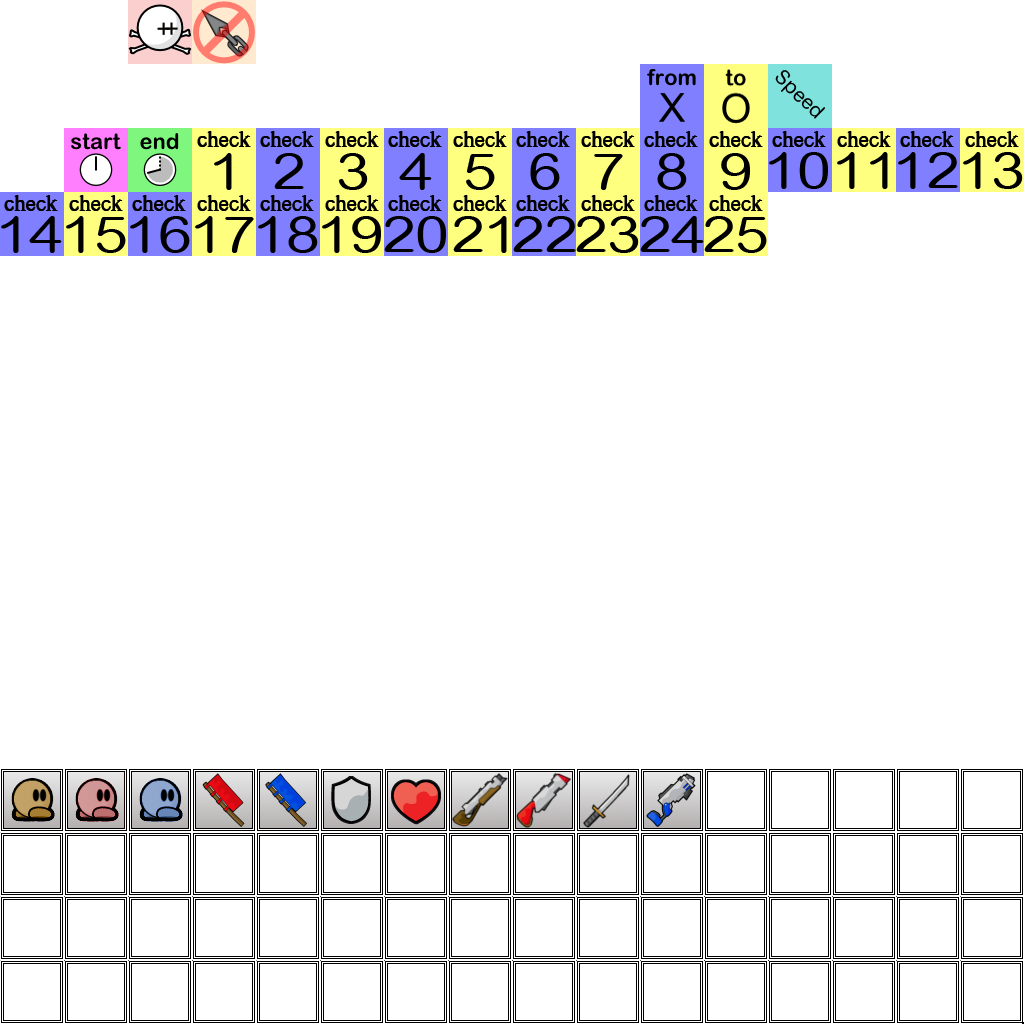
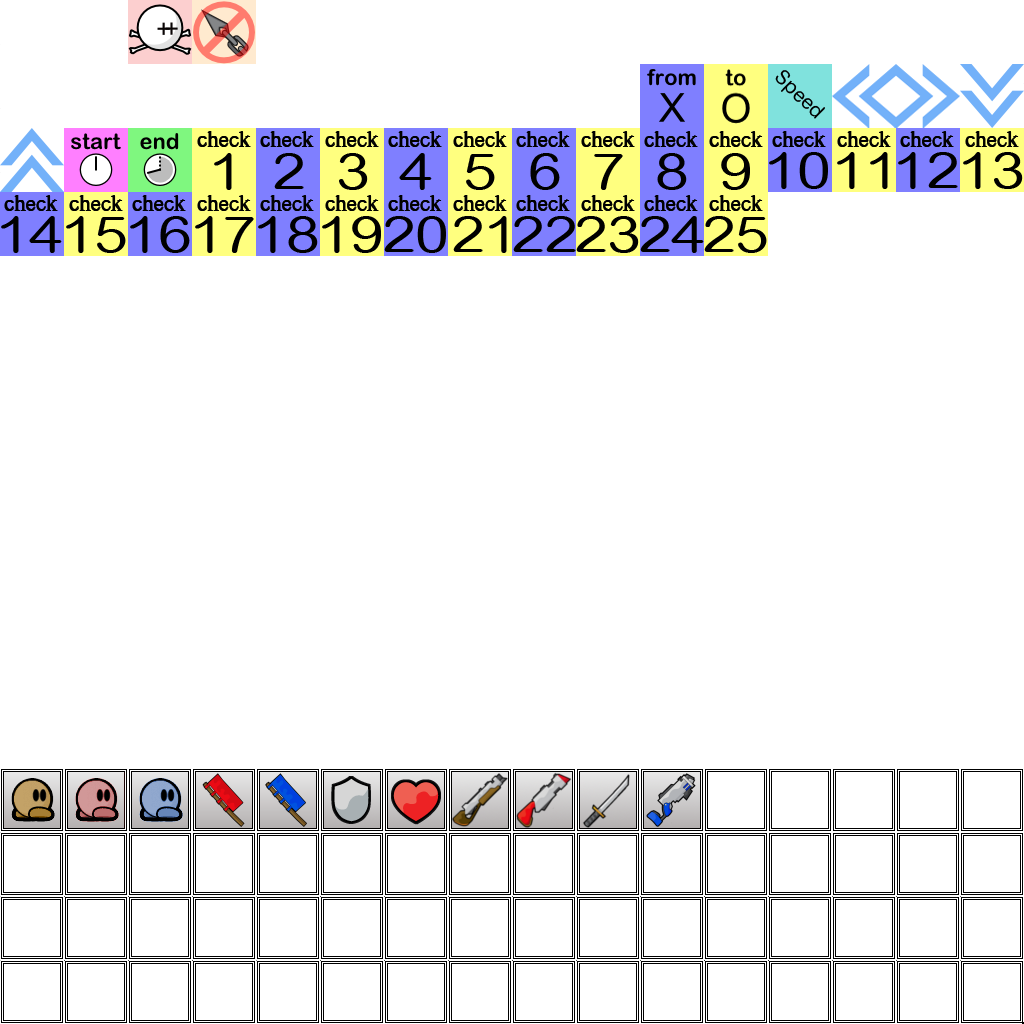
added stop tiles

Changed region(s): [[0.8125, 0.0625, 1.0, 0.125], [0.0, 0.125, 0.0625, 0.1875]]

diff --git a/src/game/server/entities/character.cpp b/src/game/server/entities/character.cpp
@@ -727,6 +727,26 @@ void CCharacter::Tick()
 		if(m_pPlayer->m_Score < TTime)
 			m_pPlayer->m_Score = TTime;
 	}
+	else if(GameServer()->Collision()->GetIndex(m_Core.m_Pos.x, m_Core.m_Pos.y) == TILE_STOPL)
+	{
+		if(m_Core.m_Vel.x > 0)
+			m_Core.m_Vel.x = 0;
+	}
+	else if(GameServer()->Collision()->GetIndex(m_Core.m_Pos.x, m_Core.m_Pos.y) == TILE_STOPR)
+	{
+		if(m_Core.m_Vel.x < 0)
+			m_Core.m_Vel.x = 0;
+	}
+	else if(GameServer()->Collision()->GetIndex(m_Core.m_Pos.x, m_Core.m_Pos.y) == TILE_STOPB)
+	{
+		if(m_Core.m_Vel.y < 0)
+			m_Core.m_Vel.y = 0;
+	}
+	else if(GameServer()->Collision()->GetIndex(m_Core.m_Pos.x, m_Core.m_Pos.y) == TILE_STOPT)
+	{
+		if(m_Core.m_Vel.y > 0)
+			m_Core.m_Vel.y = 0;
+	}
 	
 	// handle speedup tiles
 	int CurrentSpeedup = GameServer()->Collision()->IsSpeedup((int)m_Core.m_Pos.x, (int)m_Core.m_Pos.y);

diff --git a/src/game/client/render_map.cpp b/src/game/client/render_map.cpp
@@ -388,7 +388,6 @@ void CRenderTools::RenderSpeedupmap(CSpeedupTile *pSpeedup, int w, int h, float 
 				// draw force
 				char aBuf[16];
 				str_format(aBuf, sizeof(aBuf), "%d", Force);
-				dbg_msg("test", "%.5f", Scale);
 				UI()->TextRender()->Text(0, mx*Scale, my*Scale+16, Scale-20, aBuf, -1);
 			}
 		}

diff --git a/src/game/mapitems.h b/src/game/mapitems.h
@@ -47,8 +47,11 @@ enum
 	TILE_TELEIN=26,
 	TILE_TELEOUT,
 	TILE_BOOST,
-	TILE_JUMPER,
-	TILE_BEGIN=33,
+	TILE_STOPL,
+	TILE_STOPR,
+	TILE_STOPB,
+	TILE_STOPT,
+	TILE_BEGIN,
 	TILE_END,
 	
 	TILEFLAG_VFLIP=1,
